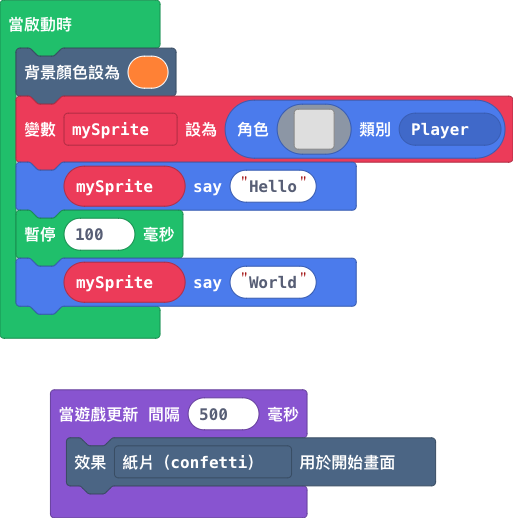
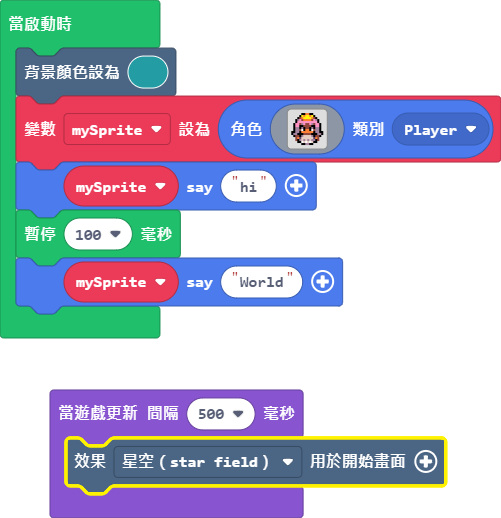
更新 main.blocks, main.ts

diff --git a/main.ts b/main.ts
@@ -1,4 +1,4 @@
-scene.setBackgroundColor(4)
+scene.setBackgroundColor(6)
 let mySprite = sprites.create(img`
     . . . . . f f 4 4 f f . . . . . 
     . . . . f 5 4 5 5 4 5 f . . . . 
@@ -17,9 +17,9 @@ let mySprite = sprites.create(img`
     . . . f f 1 d 1 d 1 d f f . . . 
     . . . . . f f b b f f . . . . . 
     `, SpriteKind.Player)
-mySprite.sayText("Hello")
+mySprite.sayText("hi")
 pause(100)
 mySprite.sayText("World")
 game.onUpdateInterval(500, function () {
-    effects.confetti.startScreenEffect()
+    effects.starField.startScreenEffect()
 })
